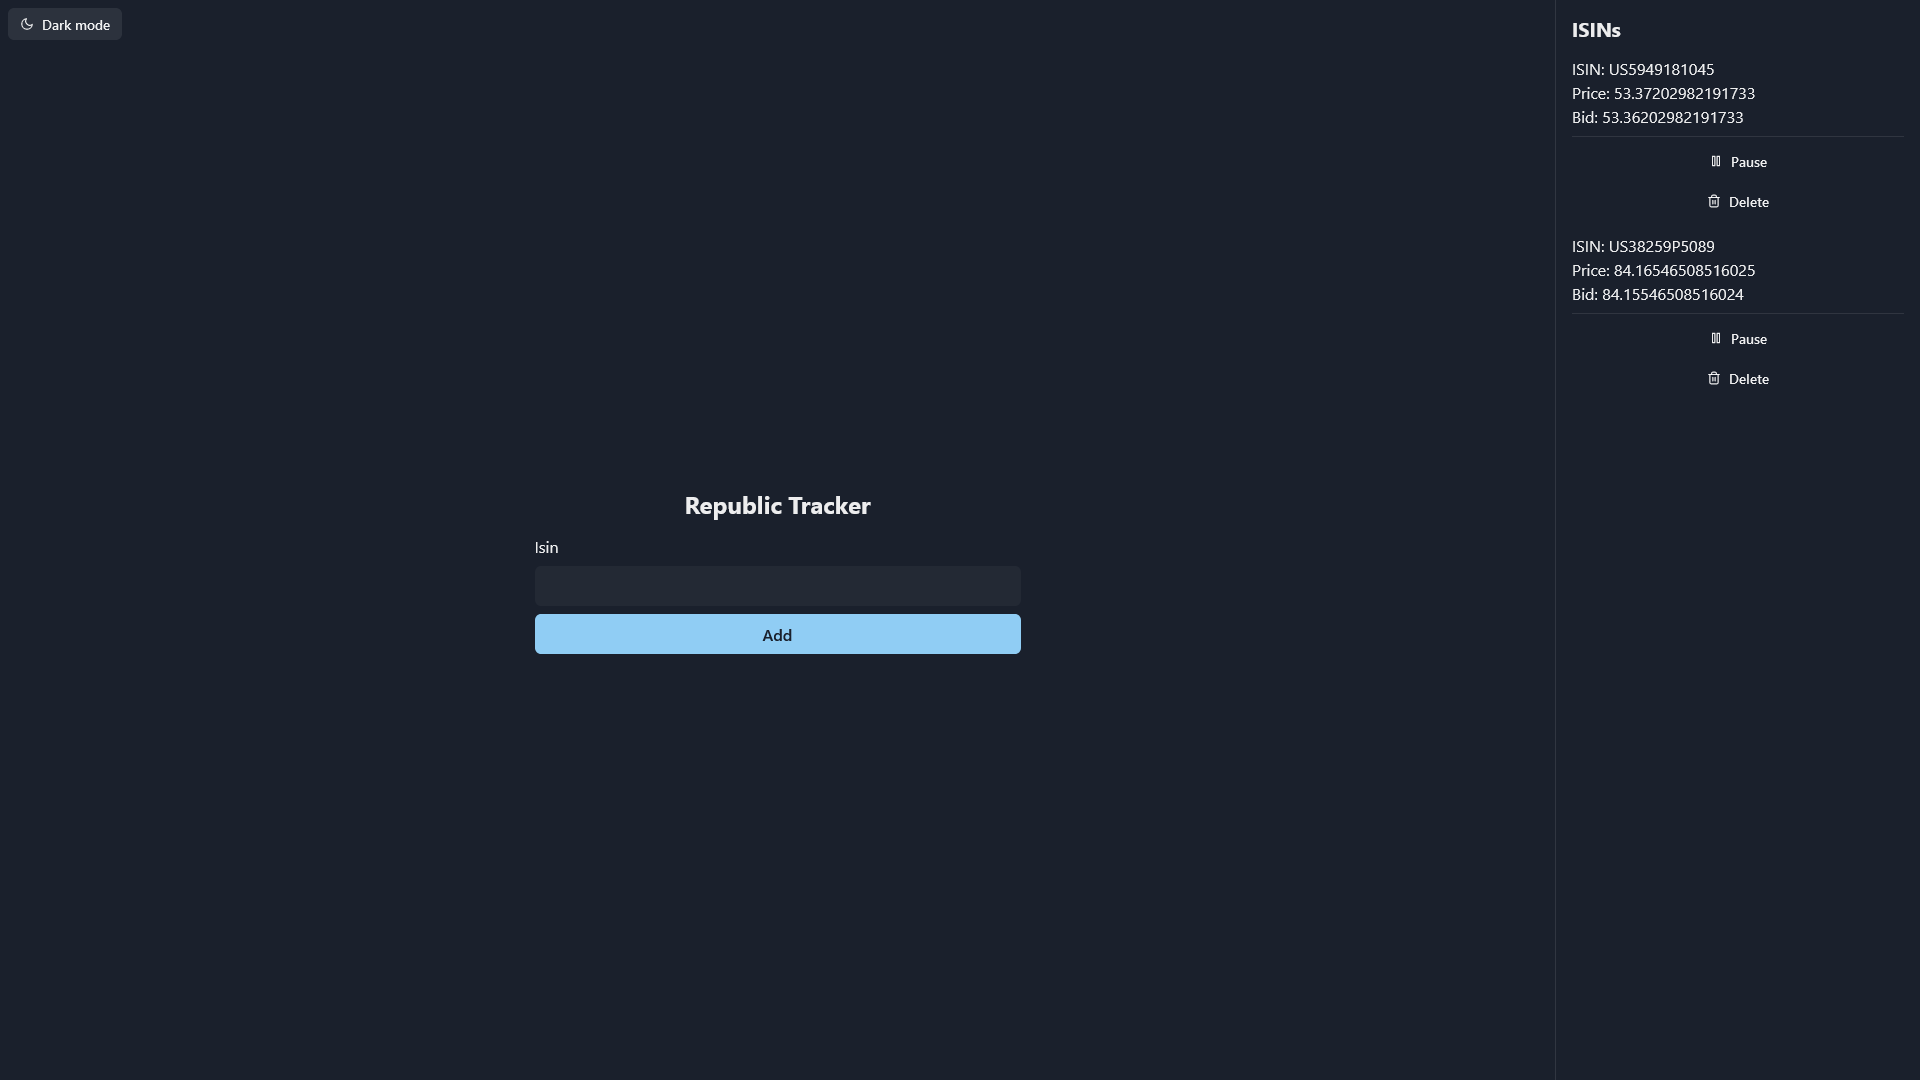
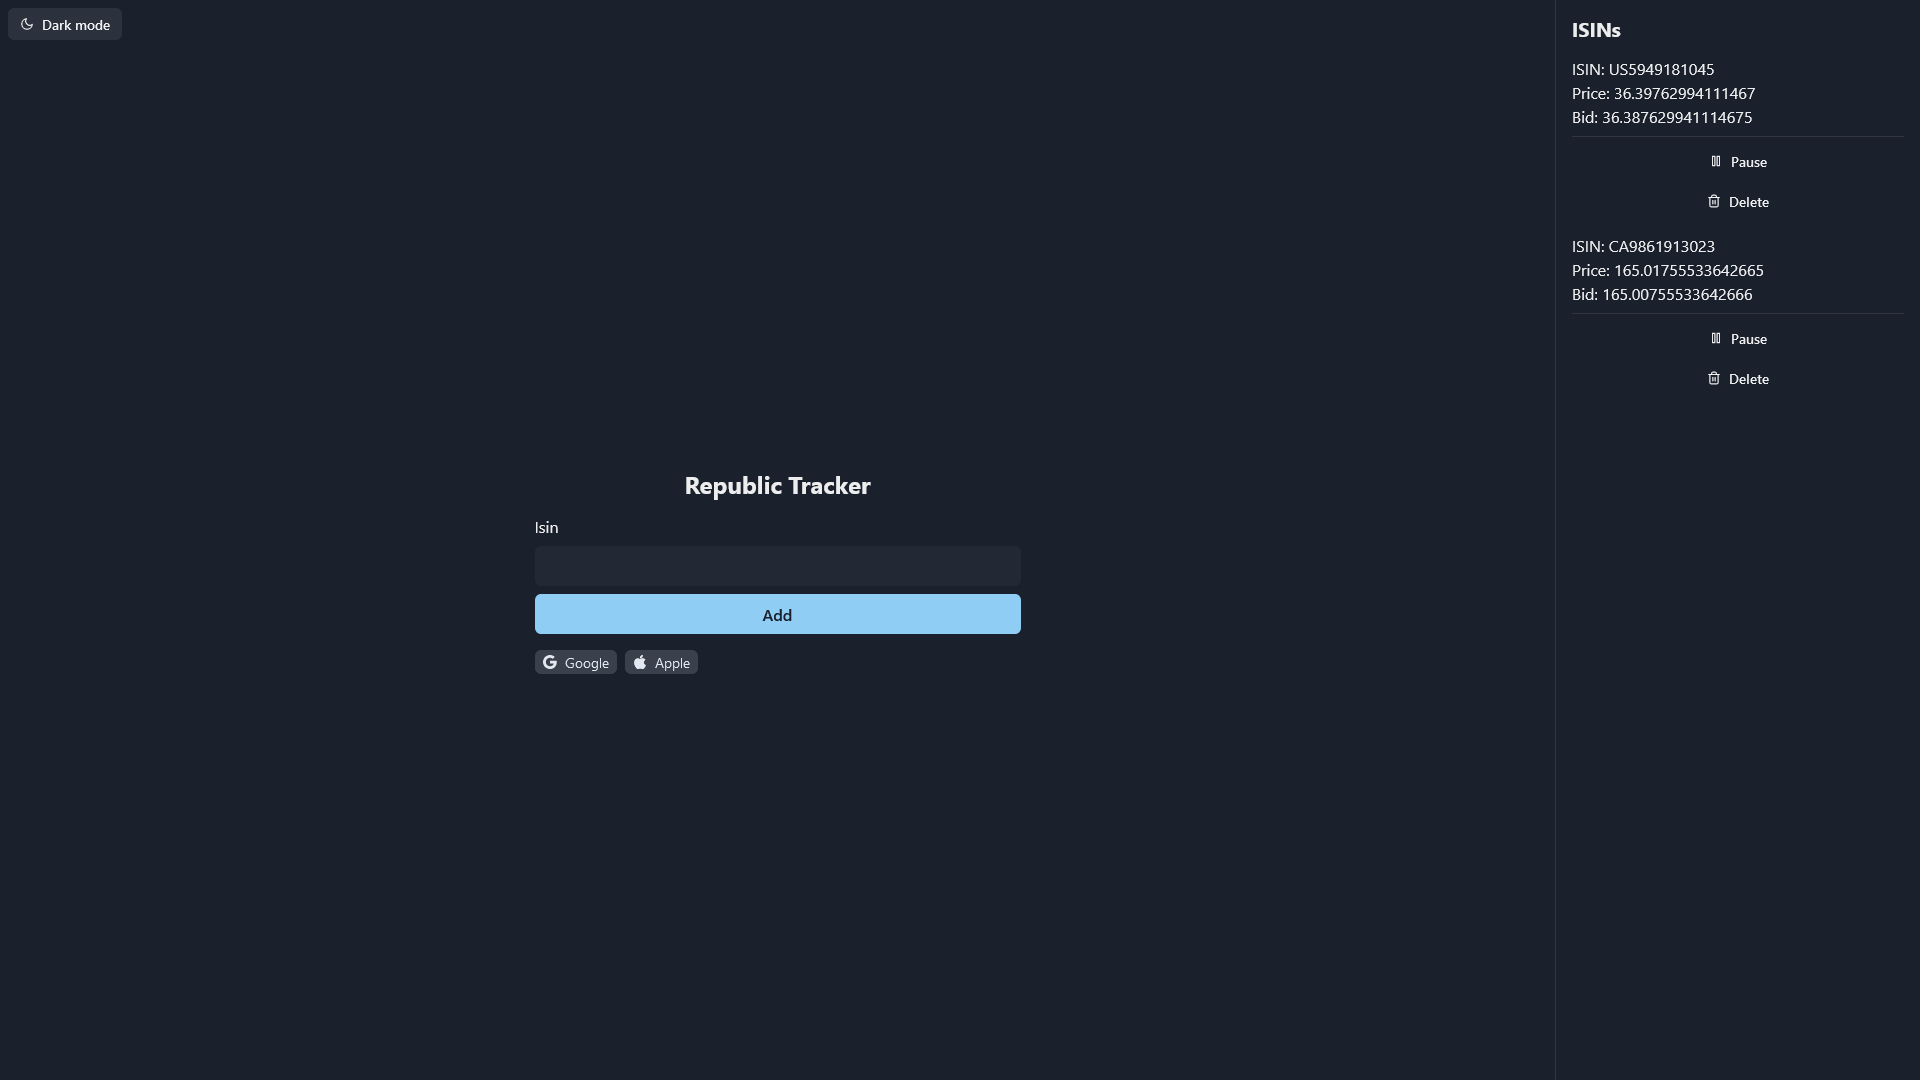
Adds common isins

diff --git a/pages/index.tsx b/pages/index.tsx
@@ -6,22 +6,30 @@ import {
   Flex,
   Grid,
   Heading,
+  Stack,
   useColorModeValue,
 } from "@chakra-ui/react";
 import type { NextPage } from "next";
 import { useLocalStorageValue } from "@react-hookz/web";
-import { map } from "ramda";
+import { map, filter, includes } from "ramda";
 
 import { Isin } from "../types";
+
+import constants from "../lib/constants";
 
 import IsinForm from "../components/IsinForm";
 import ColorModeToggle from "../components/ColorModeToggle";
 import IsinDetails from "../components/IsinDetails";
+import IsinTag from "../components/IsinTag";
 
 const Home: NextPage = () => {
-  const [isins] = useLocalStorageValue<undefined | Isin[]>("isins", [], {
-    initializeWithStorageValue: false,
-  });
+  const [isins, setIsins] = useLocalStorageValue<undefined | Isin[]>(
+    "isins",
+    [],
+    {
+      initializeWithStorageValue: false,
+    }
+  );
   const hasIsins = isins?.length;
   const gridTemplateColumns = [
     "1fr",
@@ -32,6 +40,22 @@ const Home: NextPage = () => {
     "rgba(0,0,0,0.1)",
     "rgba(255,255,255,0.1)"
   );
+  const filteredCommon = isins
+    ? filter(
+        (item) =>
+          !includes(
+            item.id,
+            map((isin) => isin.id, isins)
+          ),
+        constants.COMMON_ISINS
+      )
+    : [];
+
+  const handleOnAdd = (id: string) => {
+    if (isins) {
+      setIsins([...isins, { id }]);
+    }
+  };
 
   return (
     <Grid
@@ -45,6 +69,20 @@ const Home: NextPage = () => {
               Republic Tracker
             </Heading>
             <IsinForm />
+            <Stack spacing="2" direction={["column", "column", "row"]}>
+              {map(
+                (item) => (
+                  <IsinTag
+                    key={item.id}
+                    id={item.id}
+                    icon={item.icon}
+                    label={item.label}
+                    onClick={handleOnAdd}
+                  />
+                ),
+                filteredCommon
+              )}
+            </Stack>
           </Box>
         </Container>
       </Center>

diff --git a/components/IsinForm.tsx b/components/IsinForm.tsx
@@ -40,7 +40,7 @@ function IsinForm() {
       if (isins) {
         const exists = find((item) => equals(item.id, values.isin), isins);
         if (exists) {
-          form.setError("isin", { message: "ISIN already connected." });
+          form.setError("isin", { message: "ISIN already connected" });
         } else {
           setIsins([...isins, { id: values.isin }]);
           form.reset();
@@ -59,7 +59,10 @@ function IsinForm() {
   };
 
   return (
-    <form onSubmit={form.handleSubmit(handleOnSubmit)}>
+    <form
+      style={{ marginBottom: "var(--chakra-space-4)" }}
+      onSubmit={form.handleSubmit(handleOnSubmit)}
+    >
       <FormControl isInvalid={Boolean(form.formState.errors.isin)} mb="2">
         <FormLabel>Isin</FormLabel>
         <Input

diff --git a/components/IsinTag.tsx b/components/IsinTag.tsx
@@ -1,0 +1,25 @@
+import { Tag, TagLeftIcon, TagLabel } from "@chakra-ui/react";
+
+type Props = {
+  id: string;
+  icon: any | undefined;
+  label: string;
+  onClick: (id: string) => void;
+};
+
+const IsinTag = (props: Props) => {
+  const { id, icon, label, onClick } = props;
+  return (
+    <Tag
+      size="md"
+      variant="subtle"
+      cursor="pointer"
+      onClick={() => onClick(id)}
+    >
+      <TagLeftIcon as={icon} />
+      <TagLabel>{label}</TagLabel>
+    </Tag>
+  );
+};
+
+export default IsinTag;

diff --git a/pages/_document.tsx b/pages/_document.tsx
@@ -5,7 +5,12 @@ export default class Document extends NextDocument {
   render() {
     return (
       <Html lang="en">
-        <Head />
+        <Head>
+          <link rel="icon" href="/favicon.ico" />
+          <meta charSet="utf-8" />
+          <meta name="og:description" content="republika - isin tracker" />
+          <meta name="description" content="republika - isin tracker" />
+        </Head>
         <body>
           <ColorModeScript initialColorMode="dark" />
           <Main />

diff --git a/lib/constants.ts b/lib/constants.ts
@@ -1,0 +1,25 @@
+import { BsMicrosoft, BsGoogle, BsApple } from "react-icons/bs";
+
+const COMMON_ISINS = [
+  {
+    id: "US5949181045",
+    label: "Microsoft",
+    icon: BsMicrosoft,
+  },
+  {
+    id: "US38259P5089",
+    label: "Google",
+    icon: BsGoogle,
+  },
+  {
+    id: "US0378331005",
+    label: "Apple",
+    icon: BsApple,
+  },
+];
+
+const exports = {
+  COMMON_ISINS,
+};
+
+export default exports;
